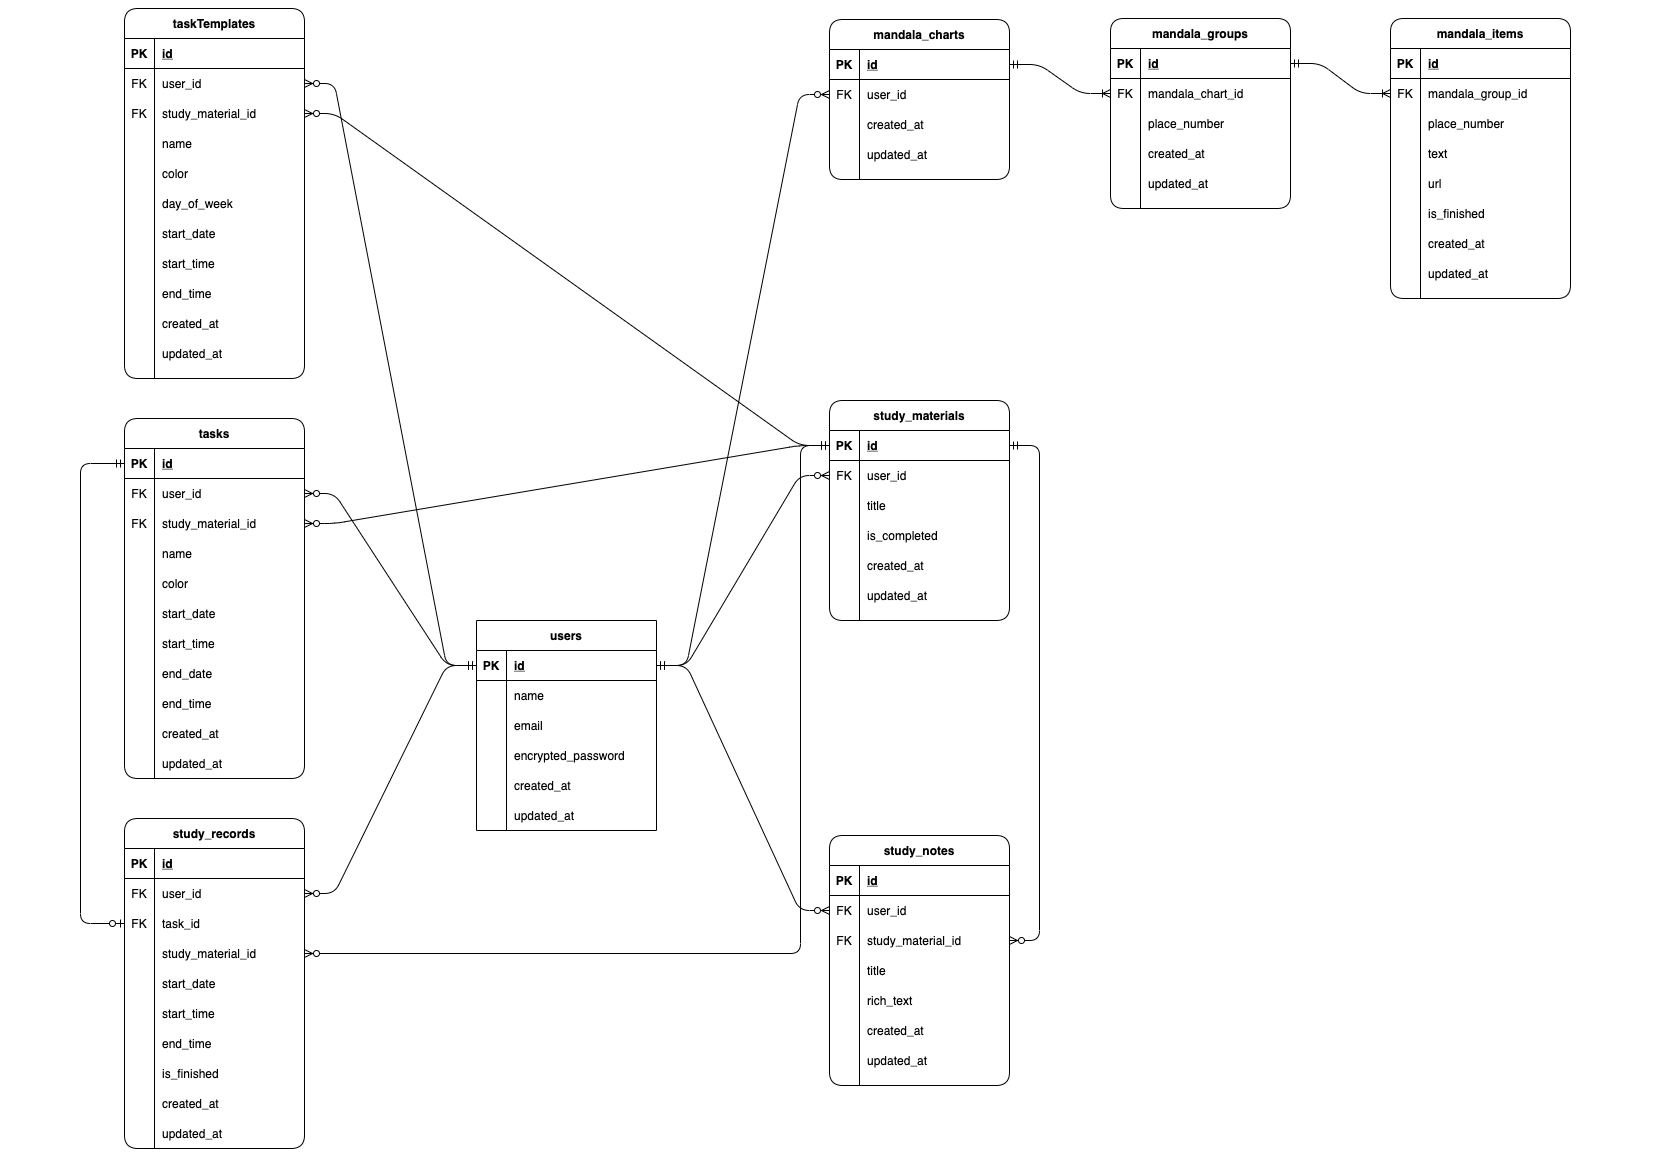
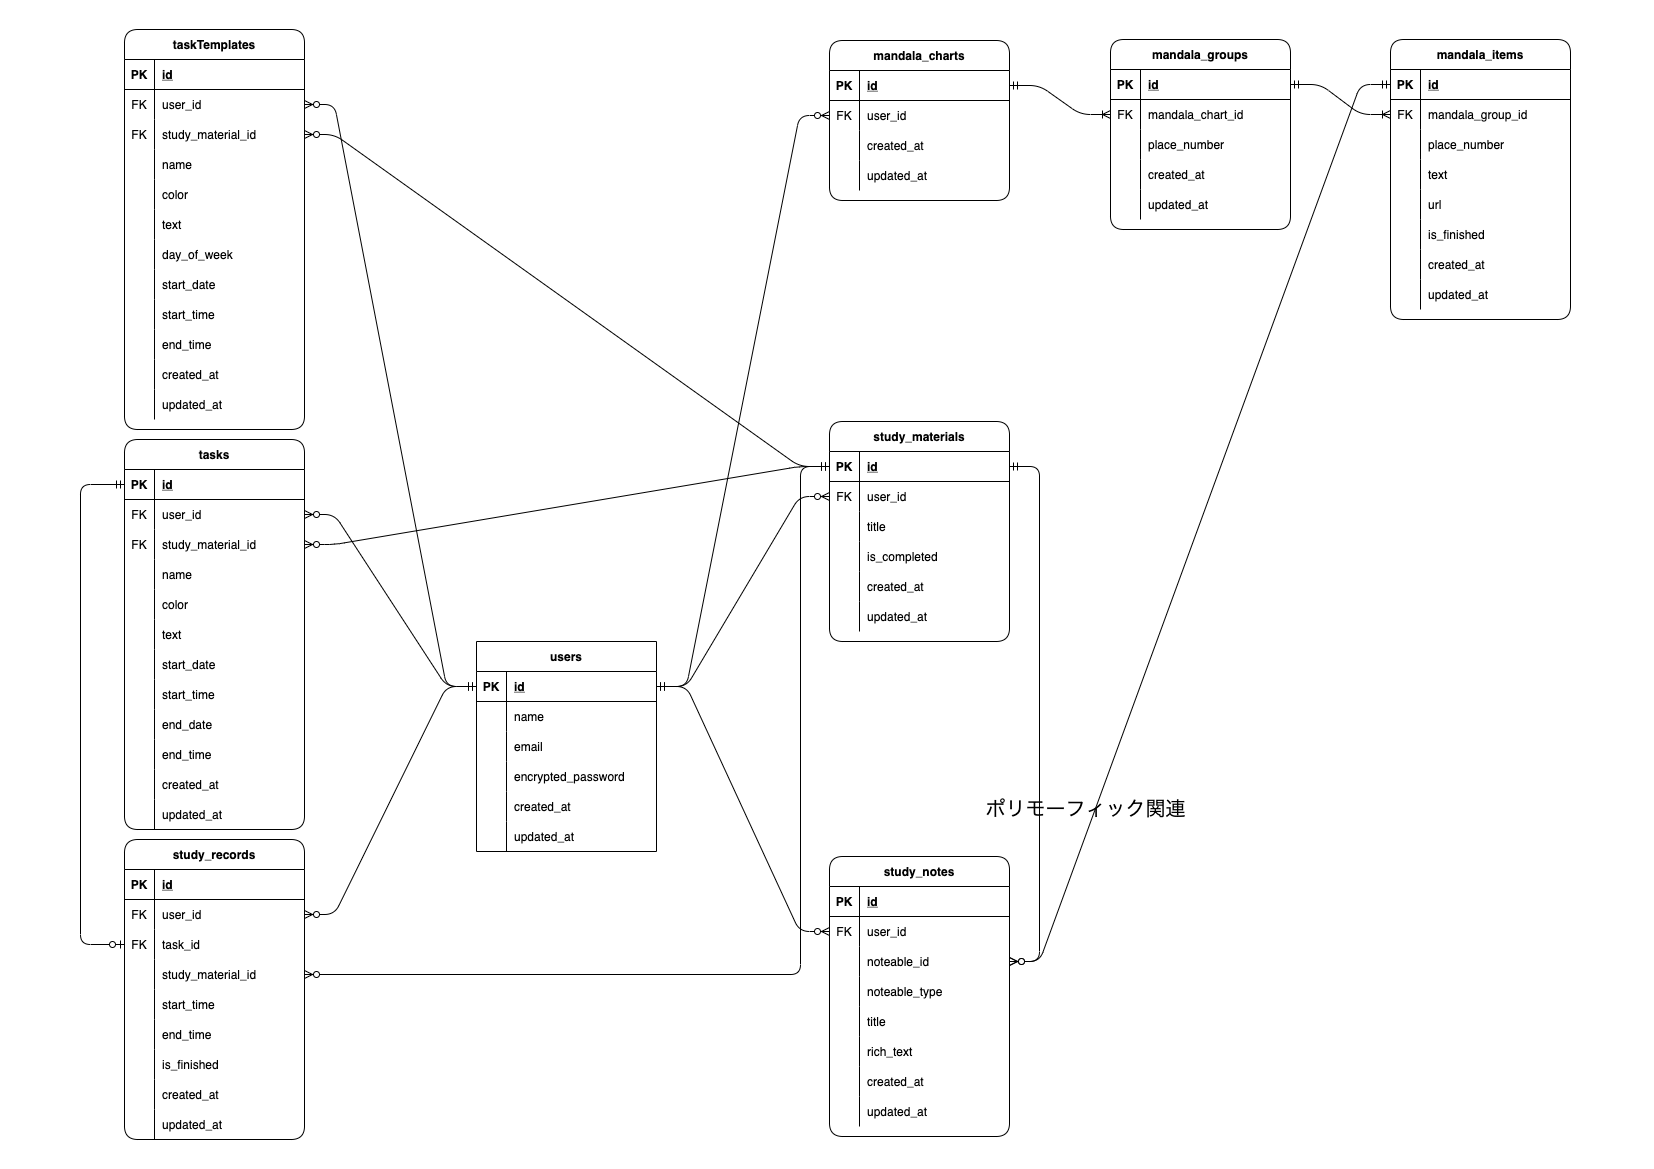
工夫した点セクションとER図を更新

diff --git a/README.md b/README.md
@@ -6,8 +6,9 @@
 ゲストログインから簡単にアプリをお試しください！<br>
 URL：https://study-management-app.com<br><br>
 
-サービスのイメージ
+## サービスのイメージ
 <br>
+
 ![DEMO](demo.gif "DEMO")
 <br><br><br>
 
@@ -34,65 +35,102 @@ URL：https://study-management-app.com<br><br>
 <br>
 
 
-## 工夫した点
-* スケジュール機能<br><br>
-・スケジュールのテンプレートを作成することで、学習スケジュールの管理を簡単にしたこと<br>
-  （長期スパンの学習予定を立てたが一時的に〇〇の週だけは別の学習スケジュールにしたいなど、柔軟に学習予定を変えるためには、スケジュール用のテンプレートが必須だった。）<br><br>
-・スケジュールの特定の時間をクリックすることで、学習予定作成フォームに自動で時間が入力されるようにしたこと<br><br>
-・未実施の学習予定を一覧表示することで、学習の進捗状況がひと目でわかること<br><br>
-・学習予定のドラッグアップデートに対応したこと<br><br>
-* UI/UX<br><br>
-・レスポンシブデザインに対応し、様々なデバイスで使用できるようにしたこと<br>
-  （デバイスのサイズによってデザインが崩れないように専用のデザインを用意した）<br><br>
-・アプリのデザインをダークモードで統一したこと<br>
-  （ダークモードに対応していない Editor.js の css を調整した）<br><br>
-・ツールが画面に収まらない場合はスクロール機能が有効化され、レイアウトが崩れるのを防いだこと<br><br>
-* インフラ<br><br>
-・CircleCI, Amazon ECR, AWS Fargate, Slack を連携し、デプロイの工数を削減して開発効率を向上させたこと<br><br><br>
-
-## 【機能一覧】
-| スケジュール |
+## 機能一覧
+| 週間スケジュール |
 | :--- |
 * 学習予定の CRUD
-* 学習予定のドラッグアップデート
+* 学習予定をドラッグ&ドロップで更新
+* 学習予定のブラックアウト（学習時間が記録された予定）
 * 学習時間の記録、更新
-* 学習予定のブラックアウト（学習時間が記録された予定が対象）
-* 学習時間が記録されていない予定の一覧表時
+* 学習時間が記録されていない予定の一覧表時、再登録
+* 週間スケジュールの表示範囲の変更（カレンダー操作対応）
 <br><br>
 
-| スケジュールテンプレート |
+| 週間スケジュールのテンプレート |
 | :--- |
-* 学習予定のテンプレートの CRUD
-* 学習予定をスケジュールへ反映
-* ドラッグアップデート
+* テンプレートの CRUD
+* テンプレートをドラッグ&ドロップで更新
+* テンプレートを週間スケジュールへ反映
 <br><br>
 
-| タイムライン |
+| サマリー |
 | :--- |
-* 当日の学習予定の一覧表示
-* 学習時間の記録、更新
-* 学習予定のブラックアウト（学習時間が記録された予定が対象）
-<br><br>
-
-| 教材 |
-| :--- |
-* 教材の追加（画像は楽天 books から取得）
-* 教材の一覧表示
-<br><br>
-
-| マンダラチャート |
-| :--- |
-* アイテムの CRUD（アイテム：マンダラチャート 9✕9 の 1マスのコンテンツ）
-* 外部サイト遷移（コンテンツに追加した URL）
-* アイコンの表示（URLの登録,項目の達成で各アイコンをコンテンツに表示）
+* 学習履歴のグラフ
+  * 積み上げ棒グラフ（教材ごとの学習時間）
+  * 円グラフ（教材ごとの時間配分）
+* 凡例
+  * 積み上げ棒グラフ（教材名、学習時間）
+  * 円グラフ（教材名、学習時間、学習時間の割合）
+* グラフの表示範囲の変更（日、週、月）
 <br><br>
 
 | ノート |
 | :--- |
 * ノートの CRUD
 * 閲覧モード,編集モードの切り替え
-* 画像（active storage を用いたダイレクトアップロード）
-* チェックリスト
-* リスト
-* ヘッダー
+* 使用できるツール
+  * 画像投稿（active storage を用いたダイレクトアップロード）
+  * ヘッダー
+  * マーカー
+  * リンク
+  * フォントウェイト
+  * 斜体
+  * リスト
+  * チェックリスト
 <br><br>
+
+| マンダラチャート |
+| :--- |
+* コンテンツの CRUD（マンダラチャートの1マス）
+* 外部サイト遷移（コンテンツに追加した URL）
+* アイコンの表示（URLの登録、コンテンツの達成で各アイコンを表示）
+* ノート
+<br><br>
+
+| 教材 |
+| :--- |
+* 教材の検索と追加（楽天ブックス書籍検索APIを使用）
+* 教材の一覧表示
+* ノート
+<br><br>
+
+| タイムライン |
+| :--- |
+* 当日の学習予定の一覧表示
+* 学習時間の記録、更新
+* 学習予定のブラックアウト（学習時間が記録された予定）
+<br><br>
+
+
+## 工夫した点
+| 機能 |
+| :--- |
+* グラフデータの操作を、ORM機能を使わずに生のSQLで記述した（TIMESTAMPDIFF関数、DATE関数、INNER JOIN、GROUP BY の使用）
+* スケジュールの特定の時間をクリックすることで、学習予定作成フォームに自動で時間が入力される
+* 学習予定をドラッグ&ドロップで更新できる
+* テンプレート機能により、学習予定を毎週一つずつ作成する手間を省ける
+* 未学習予定を一覧表示することで、学習の進捗状況を簡単に把握できる
+* 学習時間が記録されている予定の色を暗めにすることで、未学習予定が一目見てわかる
+* スケジュールの表示範囲を一週間ごとに変更するボタンと自由に指定できるカレンダーを実装した
+* ディスプレイの横幅が 600px 以上の時、未学習予定の一覧とカレンダーを常時表示できる
+
+| UI/UX |
+| :--- |
+* レスポンシブデザインに対応し、様々なデバイスで使用できるようにした
+（デバイスのサイズによってデザインが崩れないように専用のデザインを用意した）
+* 既存アプリの UI/UX を分析し、参考にできる箇所をアプリに取り入れた
+* フロントエンドに Vue と Vuetify、バックエンドに Ruby on Rails を用いて完全SPA化し、UXを向上させた
+* Vuetify ではできない細かいデザインの調整を css で行い、アプリ全体で統一感のあるデザインにした
+* 特定のデータが無い時にユーザーを誘導するボタンを表示<br>
+  *  当日の予定がない時&emsp;→&emsp;タイムライン上に週間スケジュールへの誘導ボタンを表示させた<br>
+  *  教材がない時&emsp;&emsp;&emsp;&emsp;→&emsp;タイムライン、教材メモ、教材一覧上に教材登録への誘導ボタンを表示<br>
+
+| インフラ |
+| :--- |
+ * CircleCI, Amazon ECR, AWS Fargate, Slack を連携し、デプロイの工数を削減して開発効率を向上させた
+
+| その他 |
+| :--- |
+ * 公式ドキュメントでわからないことがあれば（フレームワークのロジックを詳細に知りたいとき等）、github のソースコードを調査した
+ * docker コンテナ内での操作(rspec のテスト実行やデータベースの確認)を shell script で簡略化した
+ * コンポーネント指向によって、パーツの再利用性と保守性を意識した
